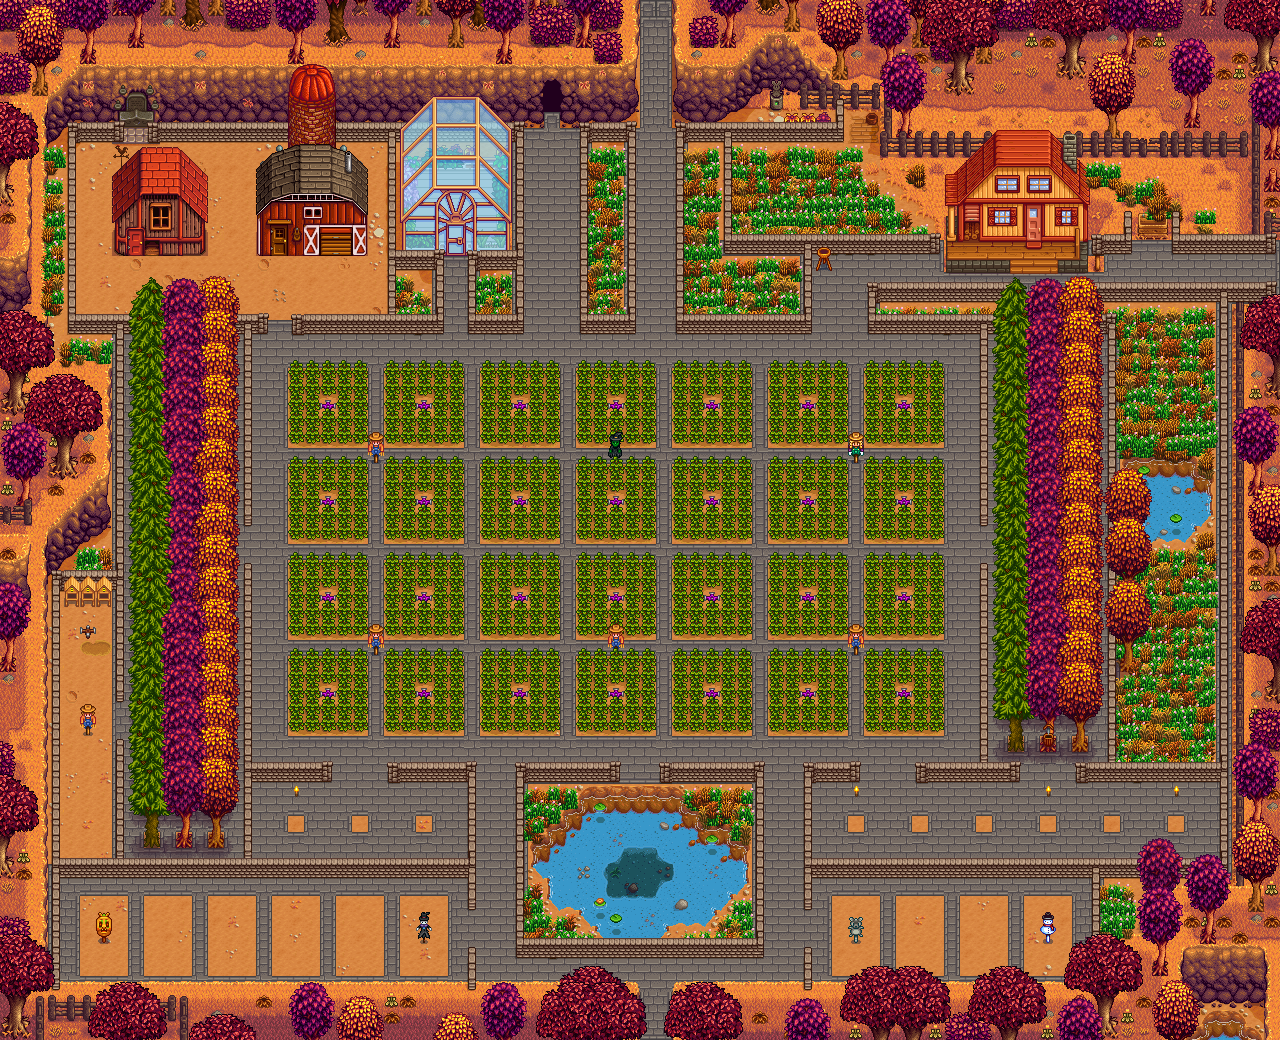
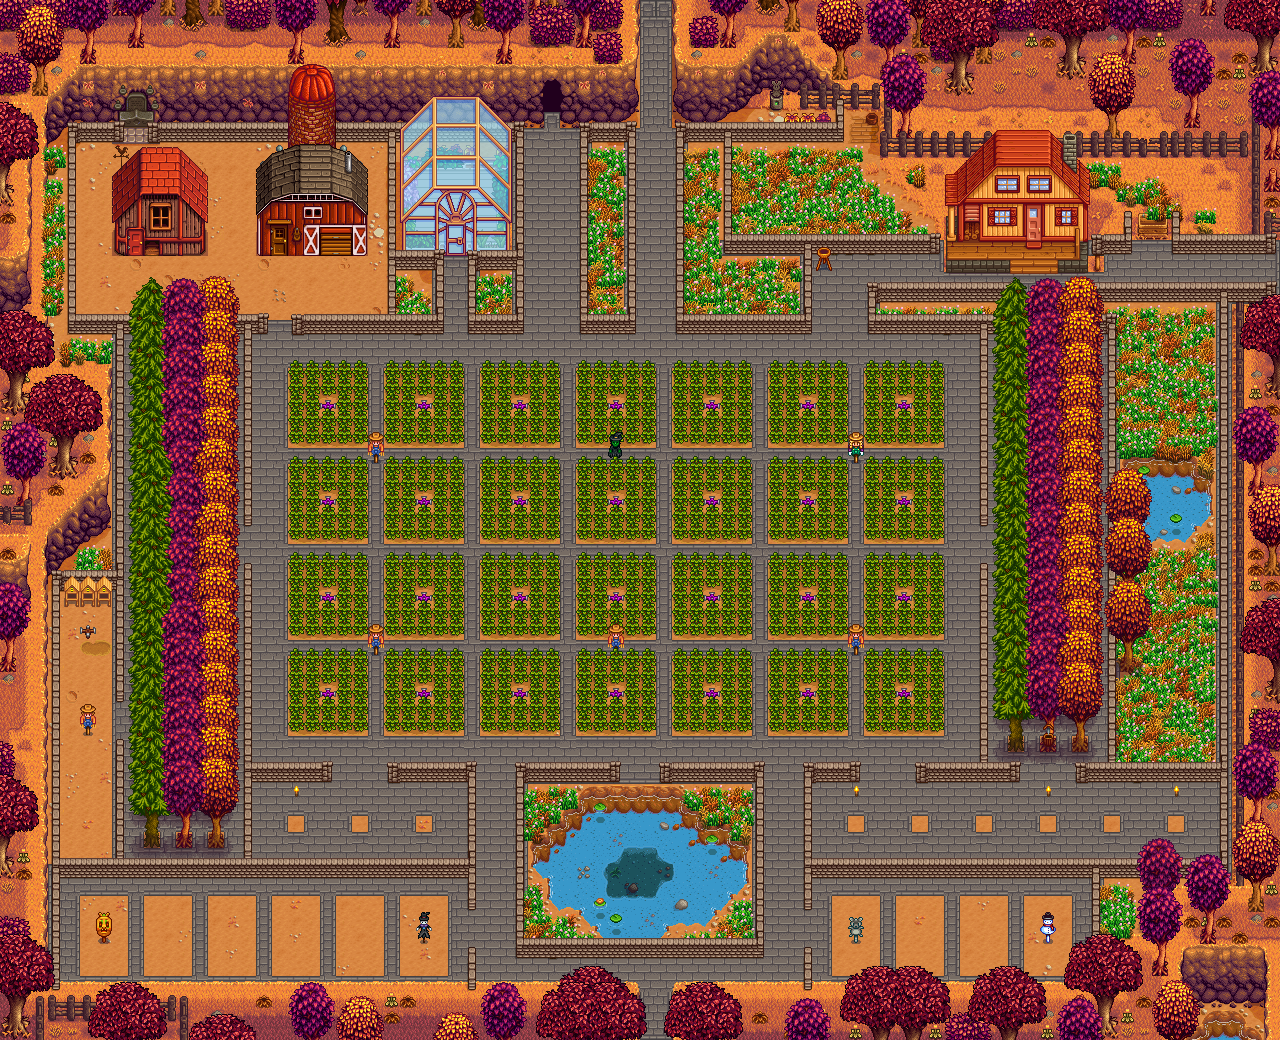
Magic code to potentially fix all ordering problems.
Pushing to a separate branch so we can use github's nice image
comparison to check if everything seems right.

diff --git a/view/sprite_batch.go b/view/sprite_batch.go
@@ -11,6 +11,7 @@ var sb = &SpriteBatch{}
 type drawSprite struct {
 	f     func()
 	layer float32
+	y     int
 }
 
 type SpriteBatch struct {
@@ -19,6 +20,9 @@ type SpriteBatch struct {
 
 func (s *SpriteBatch) Len() int { return len(s.batch) }
 func (s *SpriteBatch) Less(i, j int) bool {
+	if s.batch[i].layer == s.batch[j].layer {
+		return s.batch[i].y < s.batch[j].y
+	}
 	return s.batch[i].layer < s.batch[j].layer
 }
 func (s *SpriteBatch) Swap(i, j int) {
@@ -39,6 +43,7 @@ func (s *SpriteBatch) Draw(dst draw.Image, r image.Rectangle, src image.Image, s
 		f: func() {
 			draw.DrawMask(dst, r, src, sp, mask, sp, draw.Over)
 		},
+		y: r.Max.Y,
 	})
 }
 
